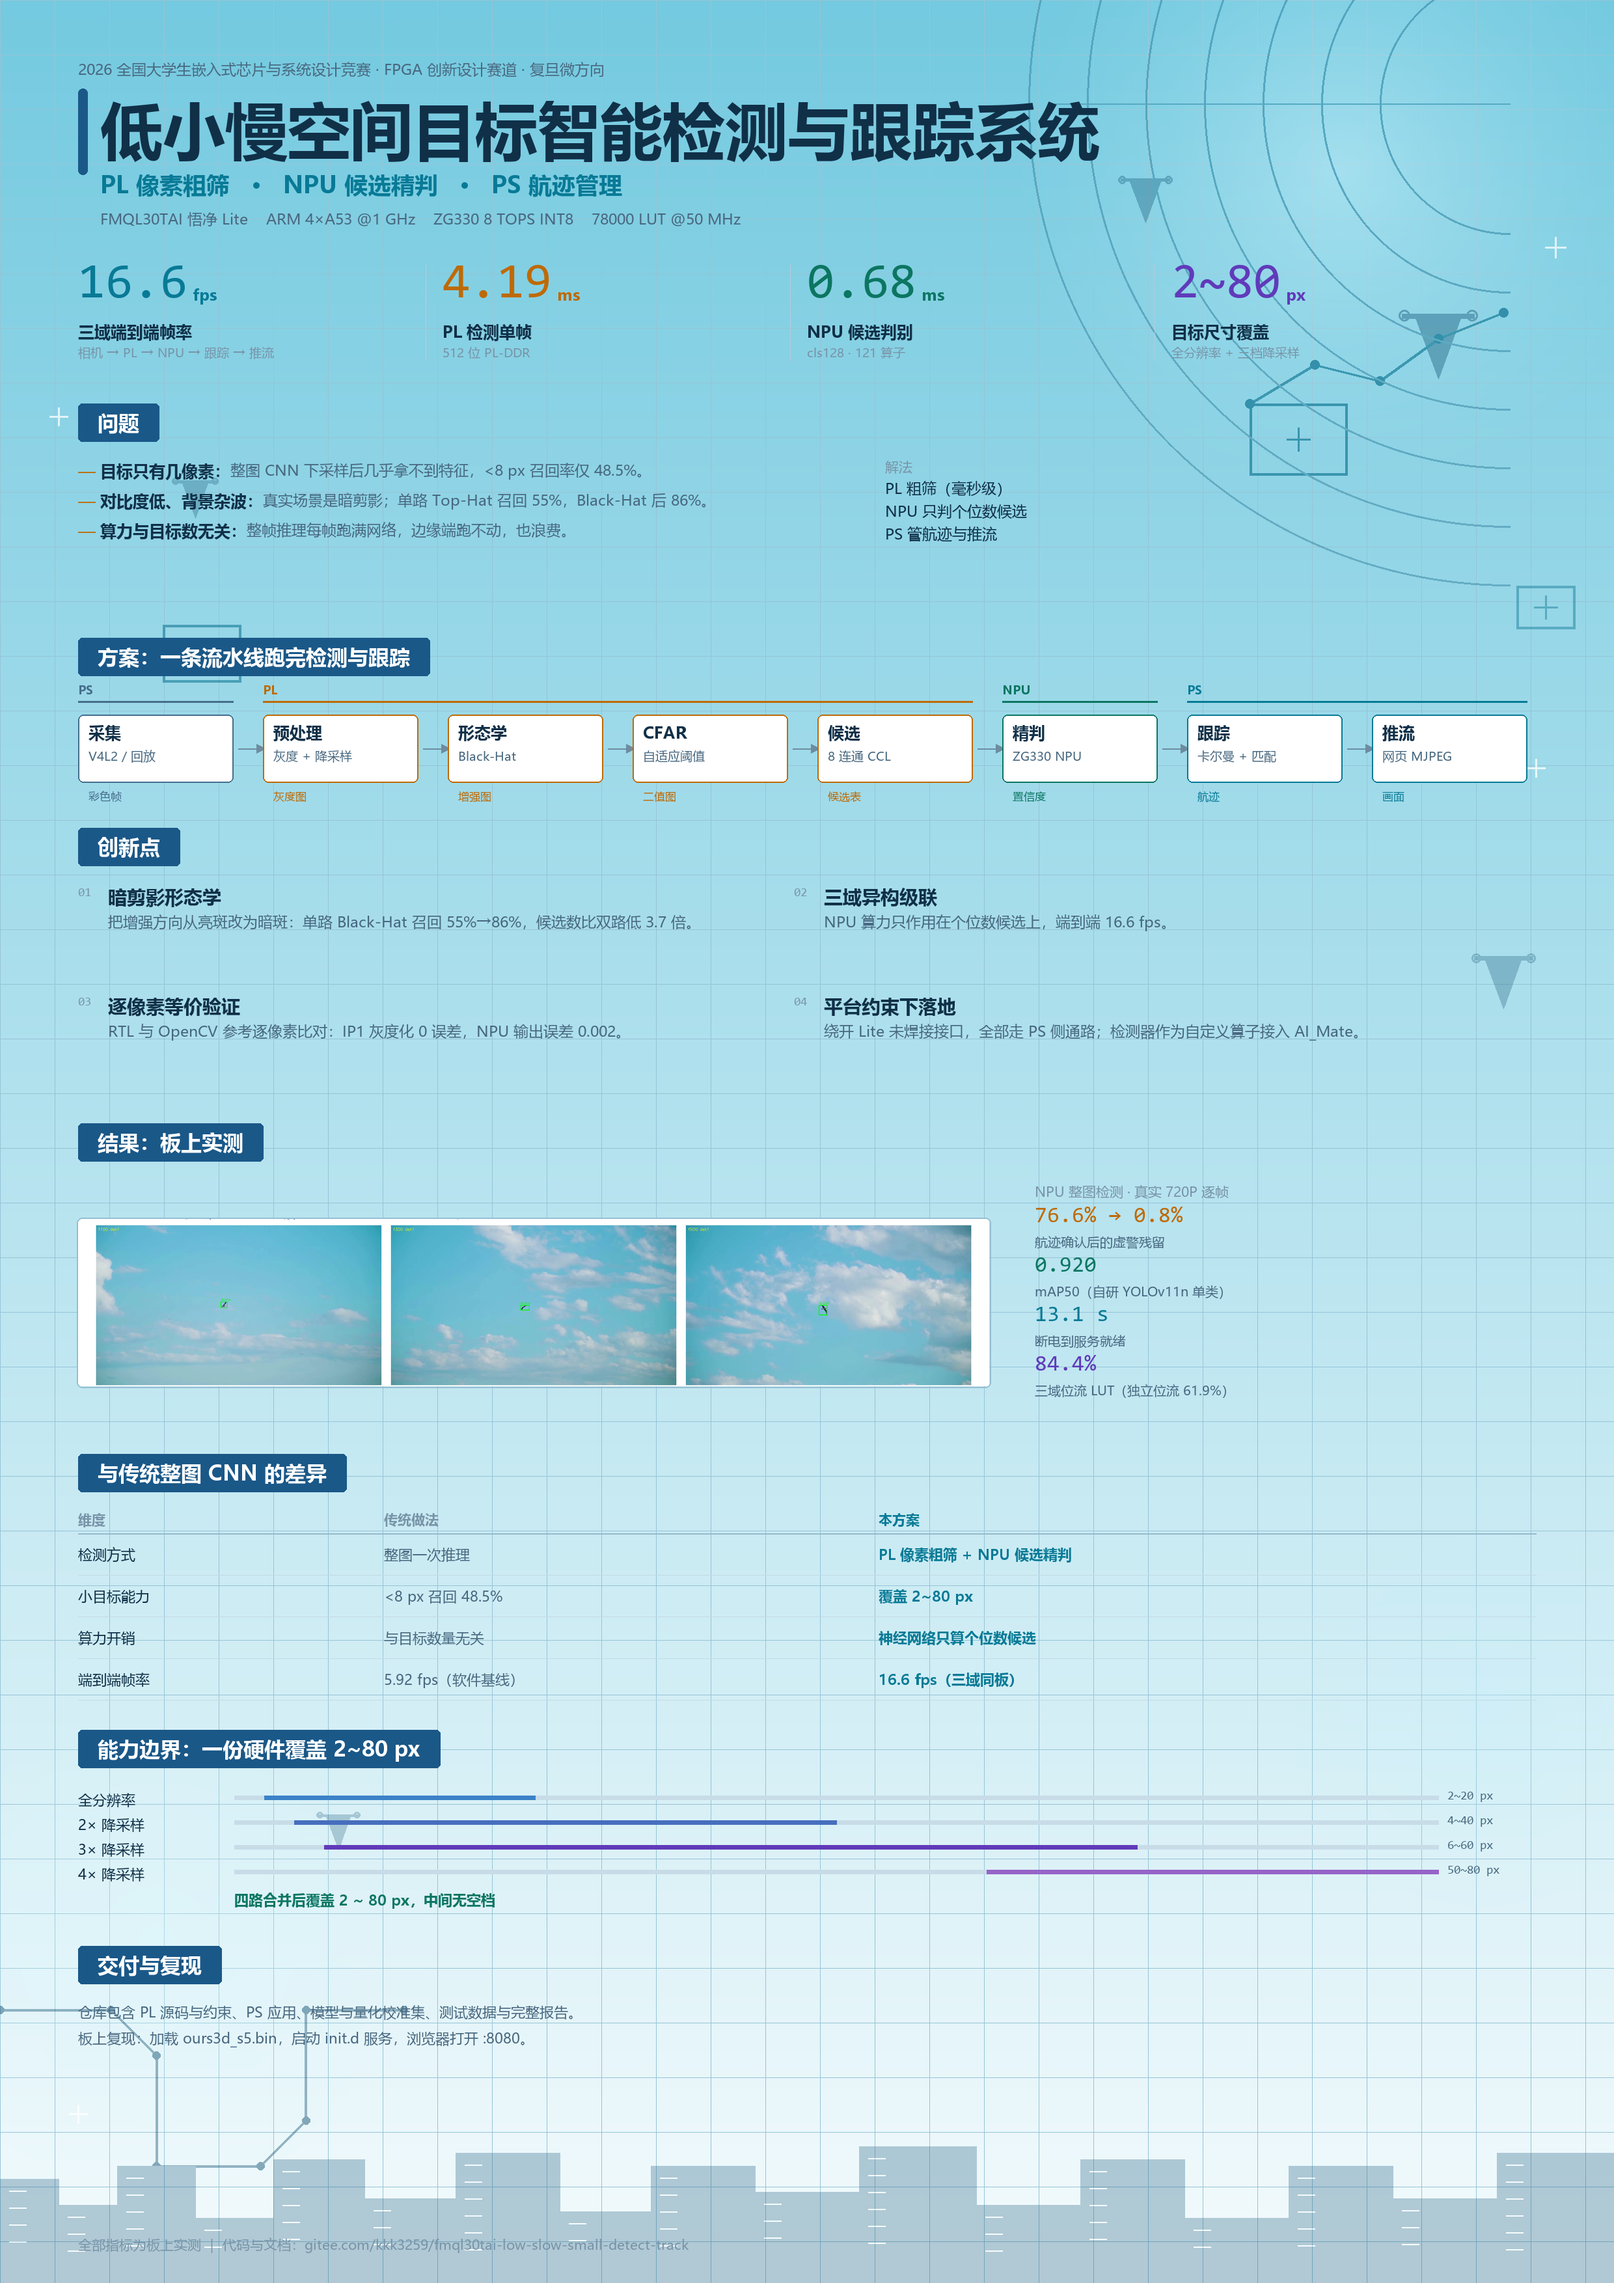
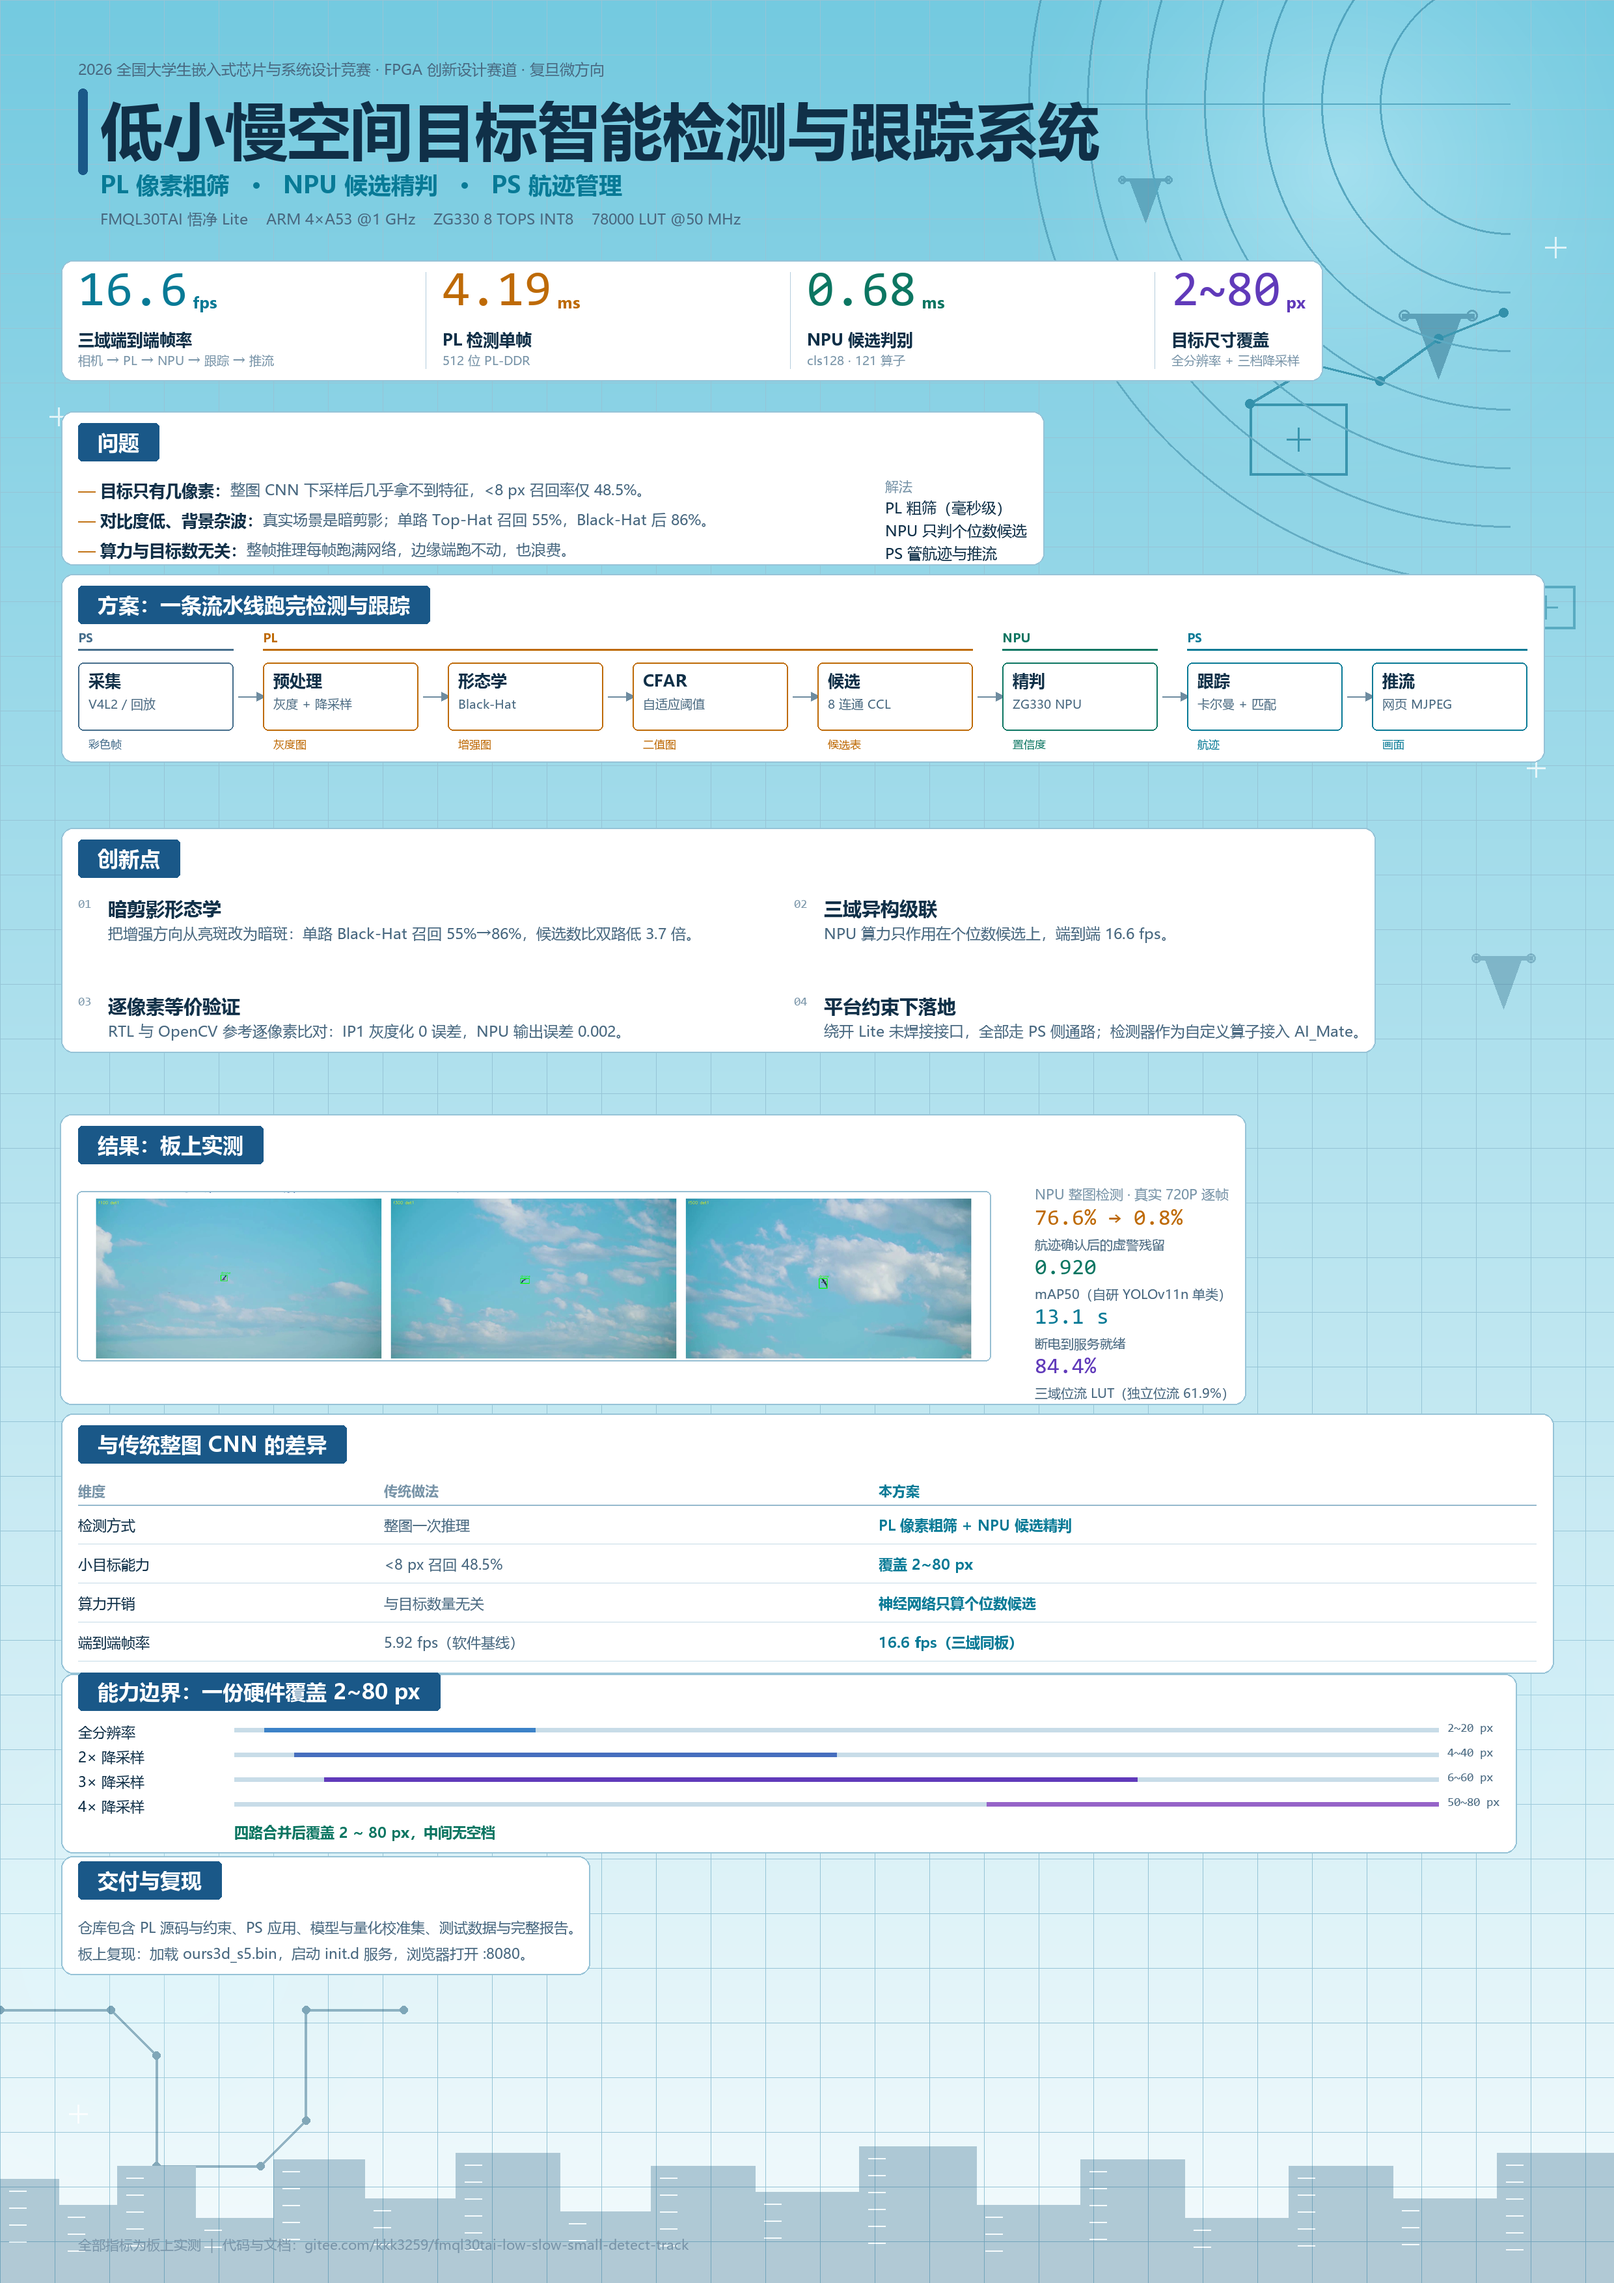
poster: 每个内容块加白色背景框

diff --git a/tools/make_poster_v2.py b/tools/make_poster_v2.py
@@ -223,8 +223,8 @@ def coverage(d, x, y, w):
 
 
 def main():
-    img = tech_bg()
-    d = ImageDraw.Draw(img)
+    content = Image.new("RGBA", (W, H), (0, 0, 0, 0))
+    d = ImageDraw.Draw(content)
 
     # 标题区
     d.text((M, 90), "2026 全国大学生嵌入式芯片与系统设计竞赛 · FPGA 创新设计赛道 · 复旦微方向",
@@ -236,7 +236,7 @@ def main():
            font=font(23, False), fill=INK2)
 
     # 关键数字
-    y = 400
+    y = 412
     cols = [(M, "16.6", "fps", "三域端到端帧率", "相机 → PL → NPU → 跟踪 → 推流", CYAN),
             (M + 560, "4.19", "ms", "PL 检测单帧", "512 位 PL-DDR", ORANGE),
             (M + 1120, "0.68", "ms", "NPU 候选判别", "cls128 · 121 算子", GREEN),
@@ -247,7 +247,7 @@ def main():
             d.line([(x - 26, y + 6), (x - 26, y + 154)], fill=(180, 205, 220), width=1)
 
     # 问题
-    y = section(d, M, 620, "问题")
+    y = section(d, M, 650, "问题")
     items = [("目标只有几像素", "整图 CNN 下采样后几乎拿不到特征，<8 px 召回率仅 48.5%。"),
              ("对比度低、背景杂波", "真实场景是暗剪影；单路 Top-Hat 召回 55%，Black-Hat 后 86%。"),
              ("算力与目标数无关", "整帧推理每帧跑满网络，边缘端跑不动，也浪费。")]
@@ -263,29 +263,28 @@ def main():
            font=font(23, False), fill=INK, spacing=10)
 
     # 方案
-    y = section(d, M, 980, "方案：一条流水线跑完检测与跟踪")
-    y = flow(d, M, y, W - M * 2)
+    y = section(d, M, 900, "方案：一条流水线跑完检测与跟踪")
+    flow(d, M, y, W - M * 2)
 
     # 创新点
-    y = section(d, M, y + 24, "创新点")
+    y = section(d, M, 1290, "创新点")
     inn = [("01", "暗剪影形态学", "把增强方向从亮斑改为暗斑：单路 Black-Hat 召回 55%→86%，候选数比双路低 3.7 倍。"),
            ("02", "三域异构级联", "NPU 算力只作用在个位数候选上，端到端 16.6 fps。"),
            ("03", "逐像素等价验证", "RTL 与 OpenCV 参考逐像素比对：IP1 灰度化 0 误差，NPU 输出误差 0.002。"),
            ("04", "平台约束下落地", "绕开 Lite 未焊接接口，全部走 PS 侧通路；检测器作为自定义算子接入 AI_Mate。")]
     for i, (num, head, body) in enumerate(inn):
         cx = M + (i % 2) * 1100
-        cy = y + (i // 2) * 168
+        cy = y + (i // 2) * 150
         d.text((cx, cy + 4), num, font=font(19, mono=True), fill=INK3)
         d.text((cx + 46, cy), head, font=font(29), fill=INK)
         for j, line in enumerate(wrap(d, body, font(23, False), 980)):
             d.text((cx + 46, cy + 42 + j * 32), line, font=font(23, False), fill=INK2)
-    y += 2 * 168 + 6
 
     # 结果
-    y = section(d, M, y + 26, "结果：板上实测")
+    y = section(d, M, 1730, "结果：板上实测")
     img_w = 1400
-    paste_pic(img, os.path.join(FIG, "图9b_NPU检测效果.png"),
-              [M, y, M + img_w, y + 380], crop=(0, 128, 1724, 445))
+    paste_pic(content, os.path.join(FIG, "图9b_NPU检测效果.png"),
+              [M, y, M + img_w, y + 290], crop=(0, 128, 1724, 445))
     rx = M + img_w + 70
     d.text((rx, y + 4), "NPU 整图检测 · 真实 720P 逐帧", font=font(21, False), fill=INK3)
     ty = y + 40
@@ -296,15 +295,14 @@ def main():
         d.text((rx, ty), v, font=font(34, mono=True), fill=c)
         d.text((rx, ty + 42), l, font=font(20, False), fill=INK2)
         ty += 76
-    y += 410
 
     # 对比
-    y = section(d, M, y + 12, "与传统整图 CNN 的差异")
+    y = section(d, M, 2190, "与传统整图 CNN 的差异")
     rows = [("检测方式", "整图一次推理", "PL 像素粗筛 + NPU 候选精判"),
             ("小目标能力", "<8 px 召回 48.5%", "覆盖 2~80 px"),
             ("算力开销", "与目标数量无关", "神经网络只算个位数候选"),
             ("端到端帧率", "5.92 fps（软件基线）", "16.6 fps（三域同板）")]
-    rh = 64
+    rh = 60
     col1, col2 = 470, 760
     d.text((M, y), "维度", font=font(21), fill=INK3)
     d.text((M + col1, y), "传统做法", font=font(21), fill=INK3)
@@ -312,17 +310,17 @@ def main():
     d.line([(M, y + 36), (W - M, y + 36)], fill=(150, 185, 205), width=2)
     for i, (a, b, c) in enumerate(rows):
         ry = y + 36 + i * rh
-        d.text((M, ry + 17), a, font=font(22, False), fill=INK)
-        d.text((M + col1, ry + 17), b, font=font(22, False), fill=INK2)
-        d.text((M + col1 + col2, ry + 17), c, font=font(22), fill=CYAN)
+        d.text((M, ry + 16), a, font=font(22, False), fill=INK)
+        d.text((M + col1, ry + 16), b, font=font(22, False), fill=INK2)
+        d.text((M + col1 + col2, ry + 16), c, font=font(22), fill=CYAN)
         d.line([(M, ry + rh), (W - M, ry + rh)], fill=(196, 218, 230), width=1)
 
     # 能力边界
-    y = section(d, M, y + 36 + len(rows) * rh + 46, "能力边界：一份硬件覆盖 2~80 px")
-    y2 = coverage(d, M, y, W - M * 2)
+    y = section(d, M, 2570, "能力边界：一份硬件覆盖 2~80 px")
+    coverage(d, M, 2640, W - M * 2)
 
     # 交付与复现
-    y3 = section(d, M, y2 + 56, "交付与复现")
+    y3 = section(d, M, 2860, "交付与复现")
     d.text((M, y3), "仓库包含 PL 源码与约束、PS 应用、模型与量化校准集、测试数据与完整报告。",
            font=font(22, False), fill=INK2)
     d.text((M, y3 + 40), "板上复现：加载 ours3d_s5.bin，启动 init.d 服务，浏览器打开 :8080。",
@@ -332,6 +330,23 @@ def main():
     by = H - 74
     d.text((M, by), "全部指标为板上实测 ｜ 代码与文档：gitee.com/kkk3259/fmql30tai-low-slow-small-detect-track",
            font=font(21, False), fill=INK3)
+
+    # 每个内容块加白底框
+    blocks = [(390, 600), (620, 850), (870, 1230), (1250, 1670),
+              (1690, 2140), (2160, 2570), (2590, 2850), (2870, 3020)]
+    img = tech_bg()
+    db = ImageDraw.Draw(img)
+    for a, b in blocks:
+        bb = content.crop((0, a, W, b)).getbbox()
+        if not bb:
+            continue
+        x0 = max(0, bb[0] - 26)
+        y0 = a + bb[1] - 18
+        x1 = min(W, bb[2] + 26)
+        y1 = a + bb[3] + 18
+        db.rounded_rectangle([x0, y0, x1, y1], radius=18,
+                             fill=(255, 255, 255, 212), outline=(150, 195, 215), width=2)
+    img = Image.alpha_composite(img, content)
 
     os.makedirs(OUT_DIR, exist_ok=True)
     img = img.convert("RGB")
